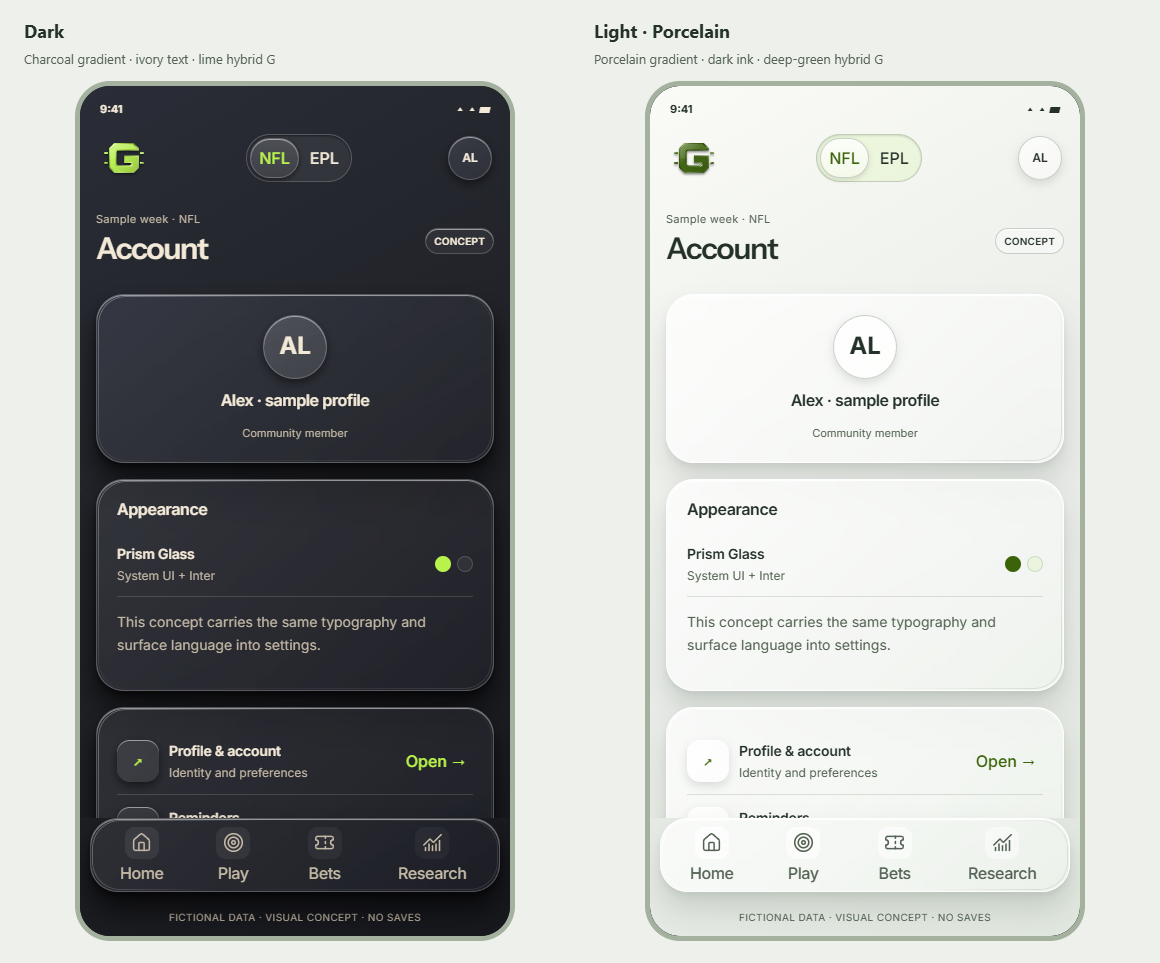
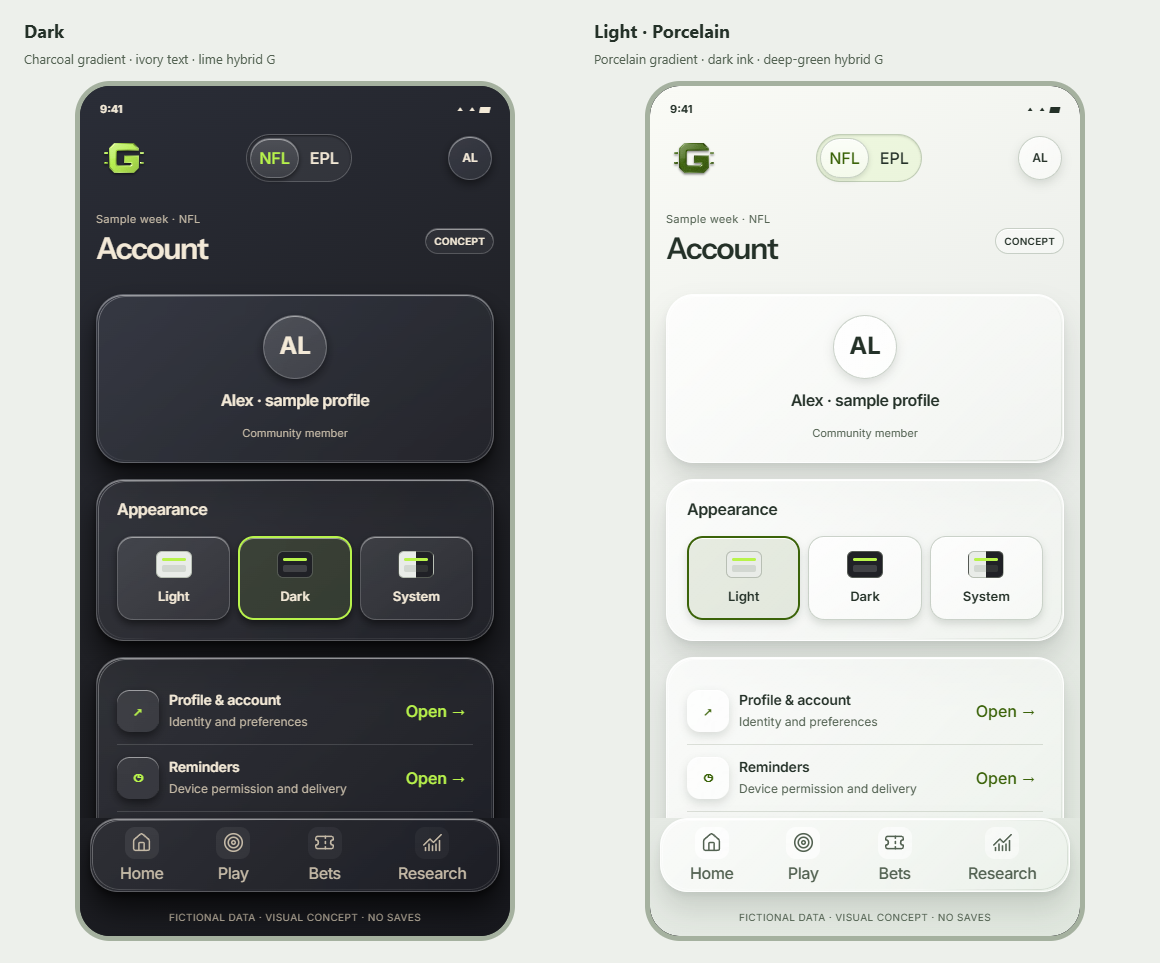
Mock glass Appearance theme choices for Account review

diff --git a/design/style-directions-2026-11-04/visual-content-review.js b/design/style-directions-2026-11-04/visual-content-review.js
@@ -30,6 +30,7 @@ const css=`
  .phone[data-play-logo-tiles] .content-pick .visual-matchup{background:transparent;box-shadow:none;gap:5px}.phone[data-play-logo-tiles] .content-pick .team-logo-tile{display:grid;place-items:center;width:42px;height:42px;border-radius:12px;background:var(--pc-small-surface);border:1px solid var(--pc-border);box-shadow:inset 0 1px 0 var(--pc-edge-1),0 4px 8px var(--pc-shadow);backdrop-filter:blur(12px)}.phone[data-play-logo-tiles] .content-pick .team-logo-tile .team-mark{width:34px;height:34px}.phone[data-play-logo-tiles] .content-pick .visual-matchup>span{min-width:0}
  .phone[data-visual-review] .visual-ticket-row{gap:10px;align-items:center}.phone[data-visual-review] .visual-ticket-row>.team-code{background:transparent!important;border:0!important;box-shadow:none!important;flex:0 0 42px}.phone[data-visual-review] .visual-ticket-row>.team-code:before,.phone[data-visual-review] .visual-ticket-row>.team-code:after{display:none!important}.visual-ticket-row .row-text{min-width:0}.visual-ticket-row .ticket-status{display:inline-flex;align-items:center;gap:5px;width:fit-content;padding:3px 8px;margin:5px 0;border:1px solid var(--pc-line);border-radius:99px;color:var(--ink);font-size:12px;font-weight:600;line-height:1.3}.ticket-status:before{content:"";width:5px;height:5px;border-radius:50%;background:currentColor}.visual-ticket-row .ticket-status.is-settled{color:var(--accent);border-color:color-mix(in srgb,var(--accent) 45%,transparent);background:color-mix(in srgb,var(--accent) 9%,transparent)}.phone[data-visual-review] .visual-ticket-row .quiet{min-height:44px;flex-shrink:0;padding-inline:5px;font-size:13px}
  .phone[data-visual-review] .visual-ticket-row + [data-action="detail:tracking"]{margin-top:16px}
+ .appearance-theme-options{display:grid;grid-template-columns:repeat(3,minmax(0,1fr));gap:8px;margin:16px 0 0}.phone[data-visual-review] .appearance-theme-choice{display:flex;flex-direction:column;align-items:center;justify-content:center;gap:10px;min-width:0;min-height:84px;padding:12px 4px;border:1px solid var(--pc-border);border-radius:16px;background:linear-gradient(145deg,var(--pc-surface-1),var(--pc-surface-2));box-shadow:inset 0 1px 0 var(--pc-edge-1),0 4px 8px var(--pc-shadow);color:var(--ink);font:600 13px var(--body);cursor:pointer}.phone[data-visual-review] .appearance-theme-choice[aria-pressed="true"]{border:2px solid var(--accent);padding:11px 3px;background:color-mix(in srgb,var(--accent) 10%,transparent)}.appearance-theme-choice:focus-visible{outline:3px solid var(--accent);outline-offset:3px}.appearance-theme-thumb{display:block;width:36px;height:27px;border:1px solid #88918080;border-radius:6px;background:#E9ECE8;position:relative;overflow:hidden}.appearance-theme-thumb:before{content:"";position:absolute;left:5px;top:6px;right:5px;height:3px;border-radius:2px;background:#B8F34B}.appearance-theme-thumb:after{content:"";position:absolute;left:5px;right:5px;top:13px;height:7px;border-radius:2px;background:#7A847433}.appearance-theme-thumb.dark{background:#202126}.appearance-theme-thumb.dark:after{background:#FFFFFF26}.appearance-theme-thumb.system{background:linear-gradient(90deg,#E9ECE8 50%,#202126 50%)}
  `;
 const head=(name,icon)=>'<span class="visual-card-head">'+glyph(icon)+name+'<small aria-hidden="true">↗</small></span>';
 function matchupTiles(screen,d){screen.querySelectorAll('.visual-matchup .team-mark').forEach(img=>{if(img.parentElement.classList.contains('team-logo-tile'))return;const tile=d.createElement('span');tile.className='team-logo-tile';img.before(tile);tile.append(img);});}
@@ -65,6 +66,7 @@ function apply(frame){
  if(area==='Research'){const h=screen.querySelector('.hero h2');if(h)h.textContent='Know the matchup.';matchupTiles(screen,d);}
  if(area==='Bets')screen.querySelectorAll('.match-row').forEach(row=>{if(!row.querySelector('[data-action="detail:ticket"]'))return;const caption=row.querySelector('.row-text small'),status=caption?.textContent.split(' · ')[0];if(!['Pending','Settled'].includes(status))return;row.classList.add('visual-ticket-row');row.querySelector('.team-code').innerHTML=glyph('ticket');const badge=d.createElement('span');badge.className='ticket-status is-'+status.toLowerCase();badge.textContent=status;row.querySelector('.row-text strong').after(badge);caption.textContent=caption.textContent.split(' · ').slice(1).join(' · ');});
  if(area==='Bets')matchupTiles(screen,d);
+ if(area==='Account'){const appearance=[...screen.querySelectorAll('.panel')].find(panel=>panel.querySelector('h3')?.textContent==='Appearance');if(appearance){const selected=frame.dataset.reviewTheme==='light'?'light':'dark';appearance.innerHTML='<h3>Appearance</h3><div class="appearance-theme-options" role="group" aria-label="Color theme">'+['light','dark','system'].map(choice=>'<button type="button" class="appearance-theme-choice" data-appearance-choice="'+choice+'" aria-pressed="'+(choice===selected)+'"><span class="appearance-theme-thumb '+choice+'" aria-hidden="true"></span><span>'+choice[0].toUpperCase()+choice.slice(1)+'</span></button>').join('')+'</div>';appearance.querySelectorAll('button').forEach(button=>button.addEventListener('click',()=>appearance.querySelectorAll('button').forEach(option=>option.setAttribute('aria-pressed',String(option===button)))));}}
  if(area==='EPL'){const hero=screen.querySelector('.hero');if(hero){hero.querySelector('p')?.remove();const clubs=d.createElement('div');clubs.className='visual-clubs';clubs.innerHTML=['ARS','CHE','LIV','MNC'].map((c,i)=>'<span>'+logo(c,['Arsenal','Chelsea','Liverpool','Man City'][i])+'</span>').join('');clubs.querySelectorAll('.team-mark').forEach(img=>{const tile=d.createElement('span');tile.className='team-logo-tile';img.before(tile);tile.append(img);});hero.insertBefore(clubs,hero.querySelector('.primary'));}}
 }
 fetch('visual-assets/lucide-icons.json').then(r=>r.json()).then(data=>{

diff --git a/docs/COMPLETION_REGISTER.md b/docs/COMPLETION_REGISTER.md
@@ -1,5 +1,22 @@
 # Guess The Line — current completion register
 
+## Account Appearance selector mocked — November 5, 2026
+
+Sean instructed "Go with your rec and mock." The Account Appearance card now
+replaces design notes with glass Light/Dark/System choices, small theme previews
+and a selected accent outline. [Dark phone capture](../design/style-directions-2026-11-04/previews/account-appearance-dark-phone.png)
+and [light phone capture](../design/style-directions-2026-11-04/previews/account-appearance-light-phone.png)
+were inspected. The mock demonstrates click/keyboard selection feedback only:
+paired preview themes stay fixed, with no stored preference, OS-theme listener
+or production changes. Existing AL placeholder and account rows are preserved;
+avatar work remains held. Chromium checked both themes at 320/390/768/1440px,
+button fit and 44px minimum targets, six choice clicks, two keyboard selections
+and six native profile/reminder/community opens; no page errors. Brand document
+and JavaScript syntax QA passed. Captures use extended presentation height and
+are not physical-device acceptance. Appearance visual approval remains pending;
+parked Signal files are untouched and unpublished.
+
+
 ## Account overview prepared for phone review — November 5, 2026
 
 Sean authorized Account review while avatar work remains held. Current

diff --git a/design/style-directions-2026-11-04/README.md b/design/style-directions-2026-11-04/README.md
@@ -3,6 +3,23 @@
 Owner: Sean Balsiger · Version 31 · November 4, 2026
 
 
+## Account Appearance selector mocked — November 5, 2026
+
+Sean instructed "Go with your rec and mock." The Account Appearance card now
+replaces design notes with glass Light/Dark/System choices, small theme previews
+and a selected accent outline. [Dark phone capture](previews/account-appearance-dark-phone.png)
+and [light phone capture](previews/account-appearance-light-phone.png)
+were inspected. The mock demonstrates click/keyboard selection feedback only:
+paired preview themes stay fixed, with no stored preference, OS-theme listener
+or production changes. Existing AL placeholder and account rows are preserved;
+avatar work remains held. Chromium checked both themes at 320/390/768/1440px,
+button fit and 44px minimum targets, six choice clicks, two keyboard selections
+and six native profile/reminder/community opens; no page errors. Brand document
+and JavaScript syntax QA passed. Captures use extended presentation height and
+are not physical-device acceptance. Appearance visual approval remains pending;
+parked Signal files are untouched and unpublished.
+
+
 ## Individual EPL crest tiles prepared for review — November 5, 2026
 
 Sean replied "Good" to the recommendation to apply individual glass tiles to
